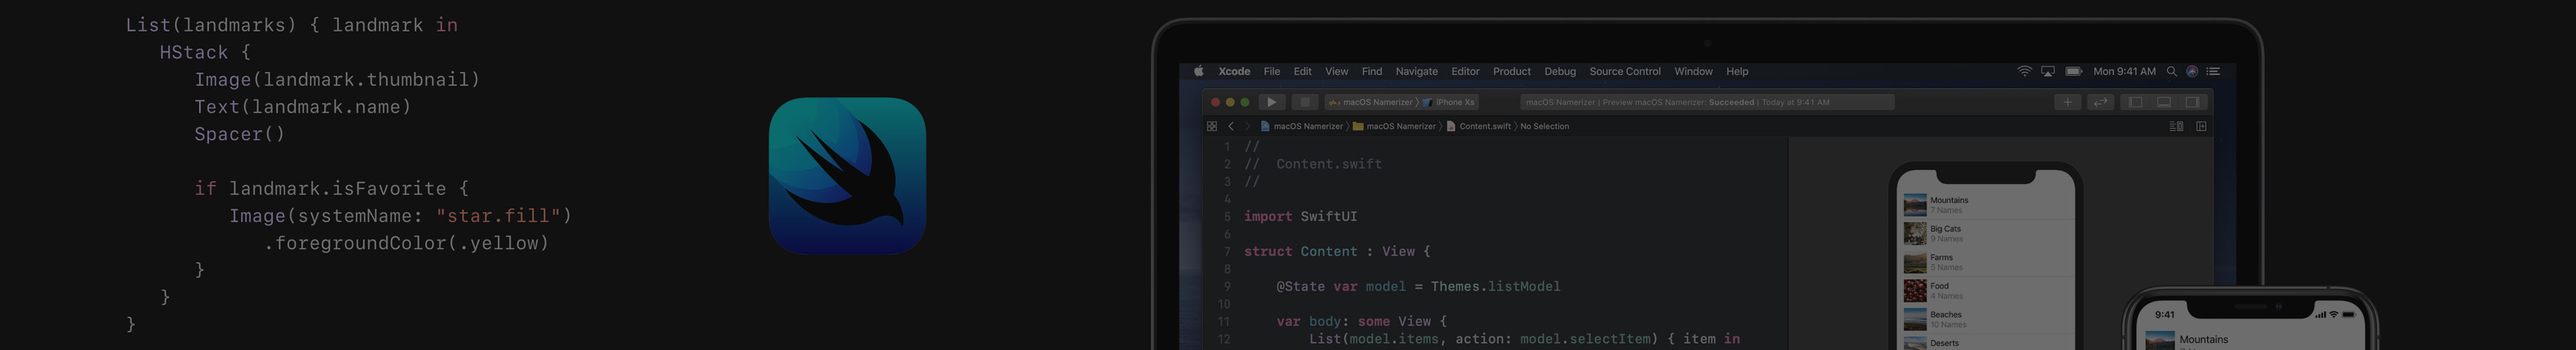
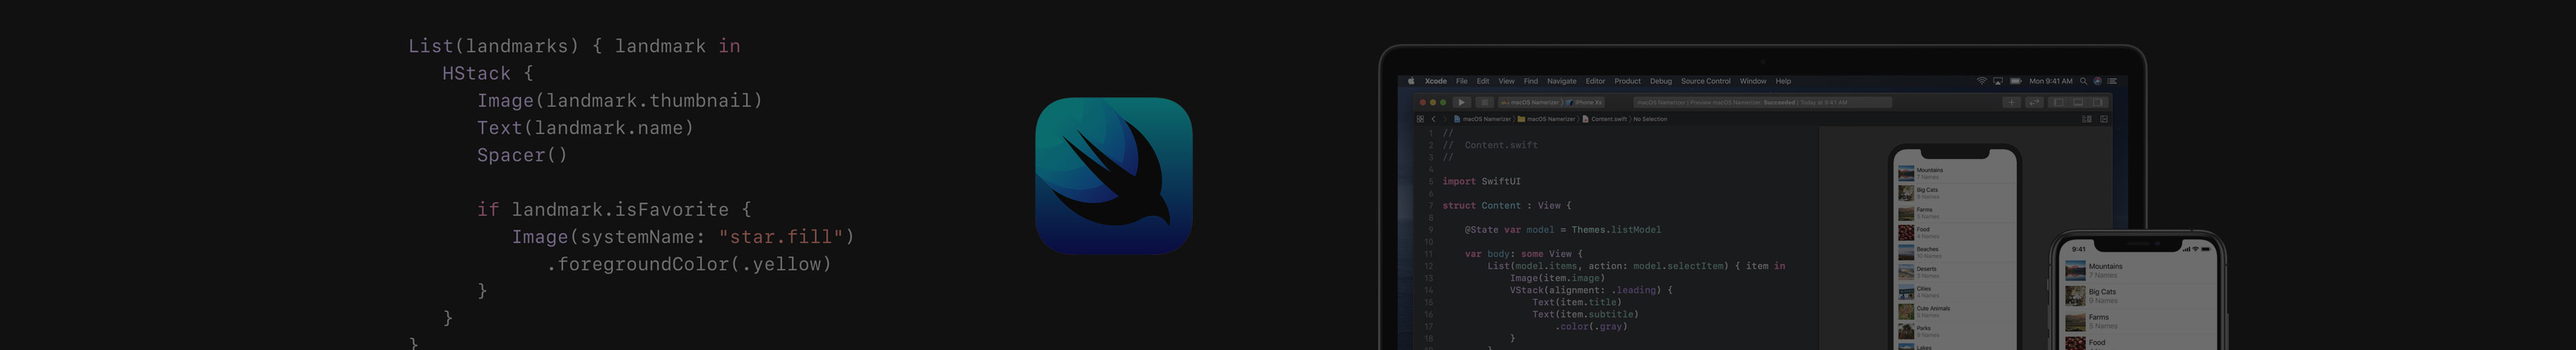
.

diff --git a/stylesheets/swiftui.css b/stylesheets/swiftui.css
@@ -1,1 +1,1 @@
-body{background:#fff}.swiftUI .title{background: #111111 url(../files/swiftUI/bg.jpg?cxd) top center no-repeat;height:160px;margin-top:45px;text-align:center;font-size:28px;background-size:auto 200px;color:#fff;padding-top:110px;text-shadow:0 1px 1px #333;letter-spacing:2px}.swiftUI .textContent{max-width:870px;margin:30px auto;padding:0 10px}.swiftUI .textContent p{color:#3a3c49;font-size:16px;line-height:1.7;margin-bottom:15px}.swiftUI .textContent ul{margin:0 0 15px 20px;color:#3a3c49}code{background:#eff0f1;padding:0 4px;border-radius:2px}.swiftUI .more{display:none}.swiftUI .moreContent .more{display:block}.swiftUI .textContent h3{font-size:16px;color:#5e6171;margin:40px 0 5px 0}.swiftUI .moreContent .moreLink{display:none}.swiftUI .textContent ul.postList{list-style:none;margin:0;border-top:1px solid #eee}.swiftUI .textContent ul.postList li{border-bottom:1px solid #f2f2f2;padding:10px 0}.swiftUI .textContent ul.postList li span{display:block;float:right;color:#aaa;width:90px;text-align:right;font-size:14px;line-height:30px}.swiftUI .textContent ul.postList li div{margin-right:90px}footer{height:36px;text-align:center;font-size:12px;border-top:1px solid #eee !important;background:#f5f5f5 !important;color:#aaa;padding-top:20px;line-height:1.5;margin-top:50px}@media screen and (max-width:800px){.swiftUI .title{margin-top:0}}@media screen and (max-width:450px){.swiftUI .title{font-size:20px;letter-spacing:1px}}
+body{background:#fff}.swiftUI .title{background: #111111 url(../files/swiftUI/bg.jpg?cxxd) top center no-repeat;height:160px;margin-top:45px;text-align:center;font-size:28px;background-size:auto 270px;color:#fff;padding-top:110px;text-shadow:0 1px 1px #333;letter-spacing:2px}.swiftUI .textContent{max-width:870px;margin:30px auto;padding:0 10px}.swiftUI .textContent p{color:#3a3c49;font-size:16px;line-height:1.7;margin-bottom:15px}.swiftUI .textContent ul{margin:0 0 15px 20px;color:#3a3c49}code{background:#eff0f1;padding:0 4px;border-radius:2px}.swiftUI .more{display:none}.swiftUI .moreContent .more{display:block}.swiftUI .textContent h3{font-size:16px;color:#5e6171;margin:40px 0 5px 0}.swiftUI .moreContent .moreLink{display:none}.swiftUI .textContent ul.postList{list-style:none;margin:0;border-top:1px solid #eee}.swiftUI .textContent ul.postList li{border-bottom:1px solid #f2f2f2;padding:10px 0}.swiftUI .textContent ul.postList li span{display:block;float:right;color:#aaa;width:90px;text-align:right;font-size:14px;line-height:30px}.swiftUI .textContent ul.postList li div{margin-right:90px}footer{height:36px;text-align:center;font-size:12px;border-top:1px solid #eee !important;background:#f5f5f5 !important;color:#aaa;padding-top:20px;line-height:1.5;margin-top:50px}@media screen and (max-width:800px){.swiftUI .title{margin-top:0}}@media screen and (max-width:450px){.swiftUI .title{font-size:20px;letter-spacing:1px}}

diff --git a/_layouts/swiftui.html b/_layouts/swiftui.html
@@ -1,5 +1,5 @@
 {% include header.html %}
-<link type="text/css" rel="stylesheet" href="/stylesheets/swiftui.css?xd"/>
+<link type="text/css" rel="stylesheet" href="/stylesheets/swiftui.css?xds"/>
 <div class="swiftUI">
     <div class="title">
         <h1>SwiftUI 快速入门</h1>
